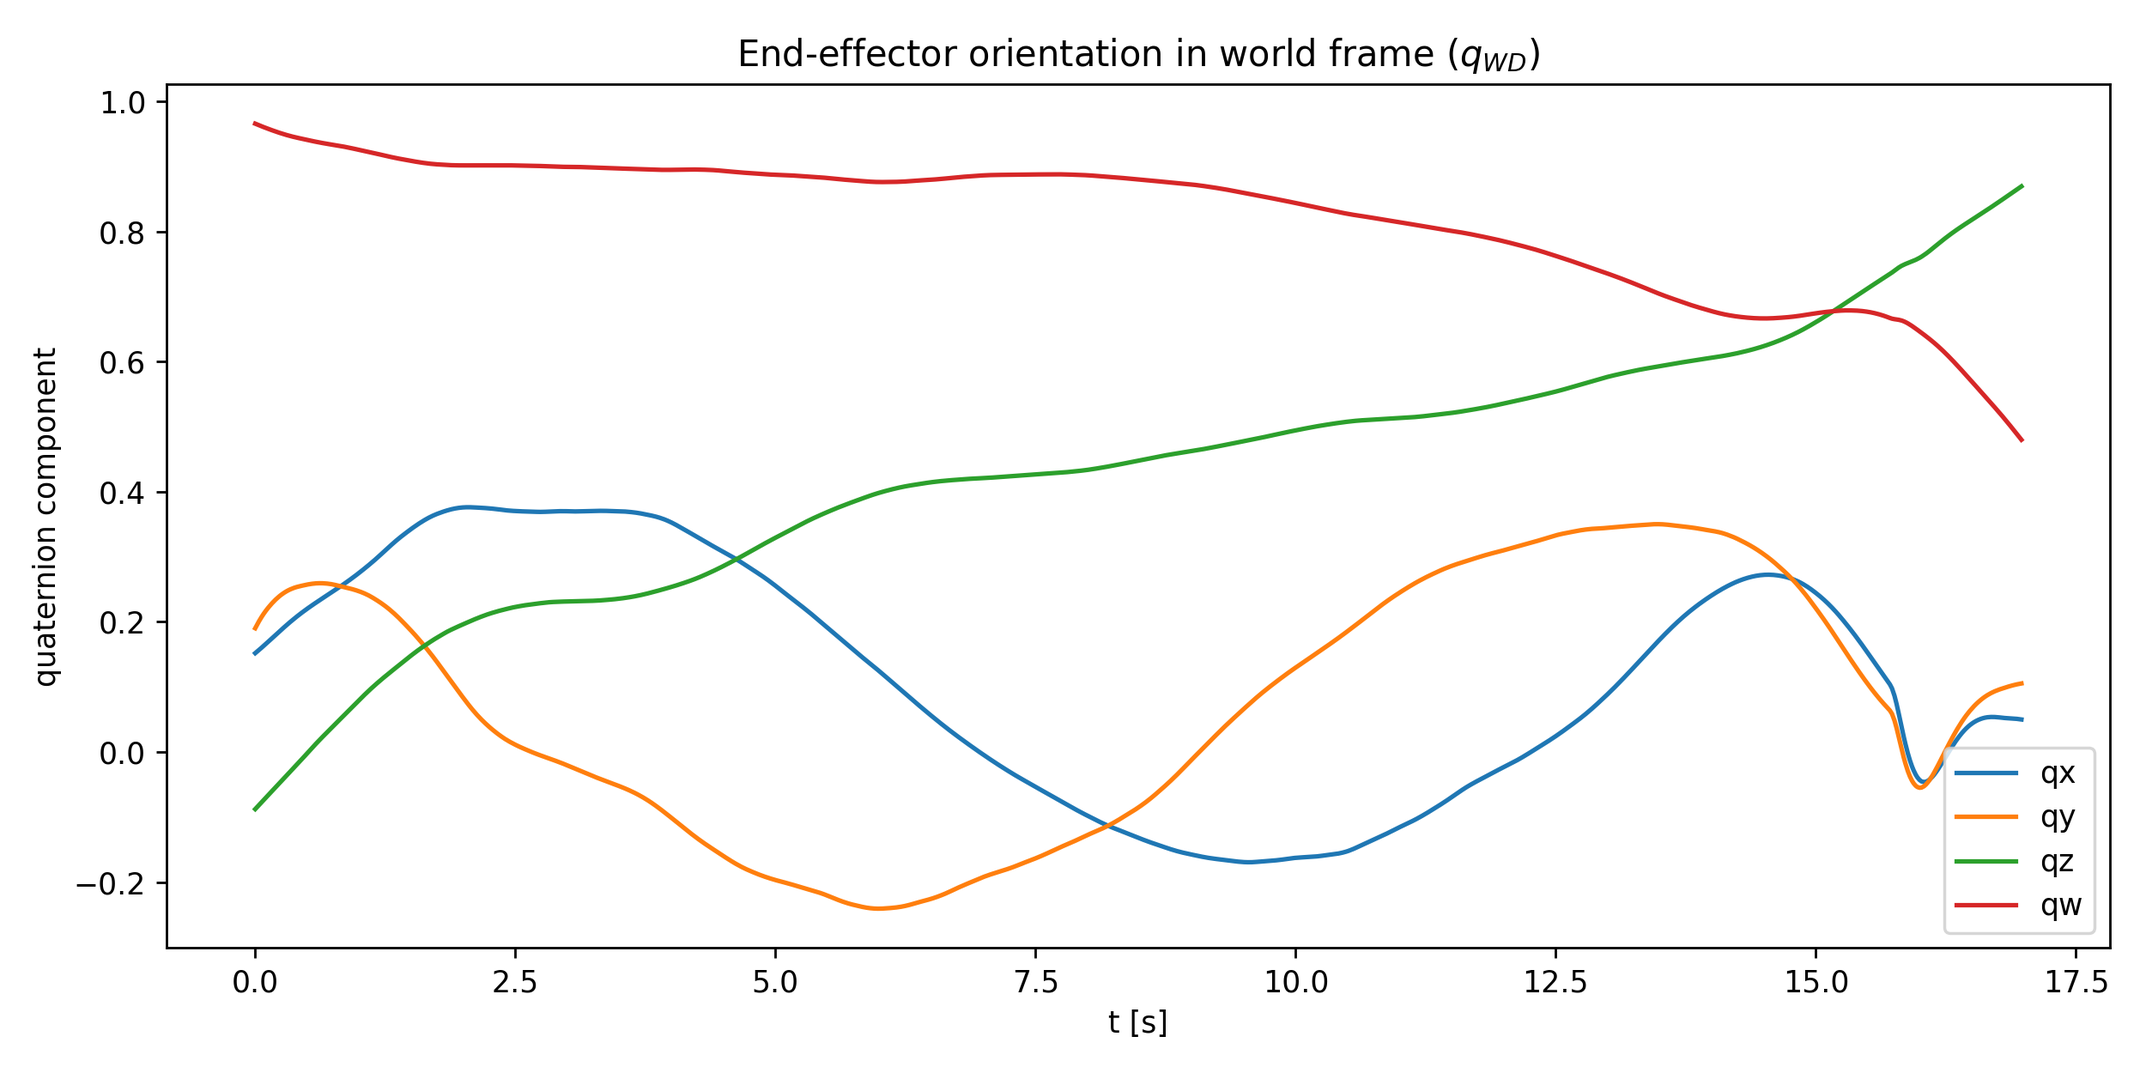
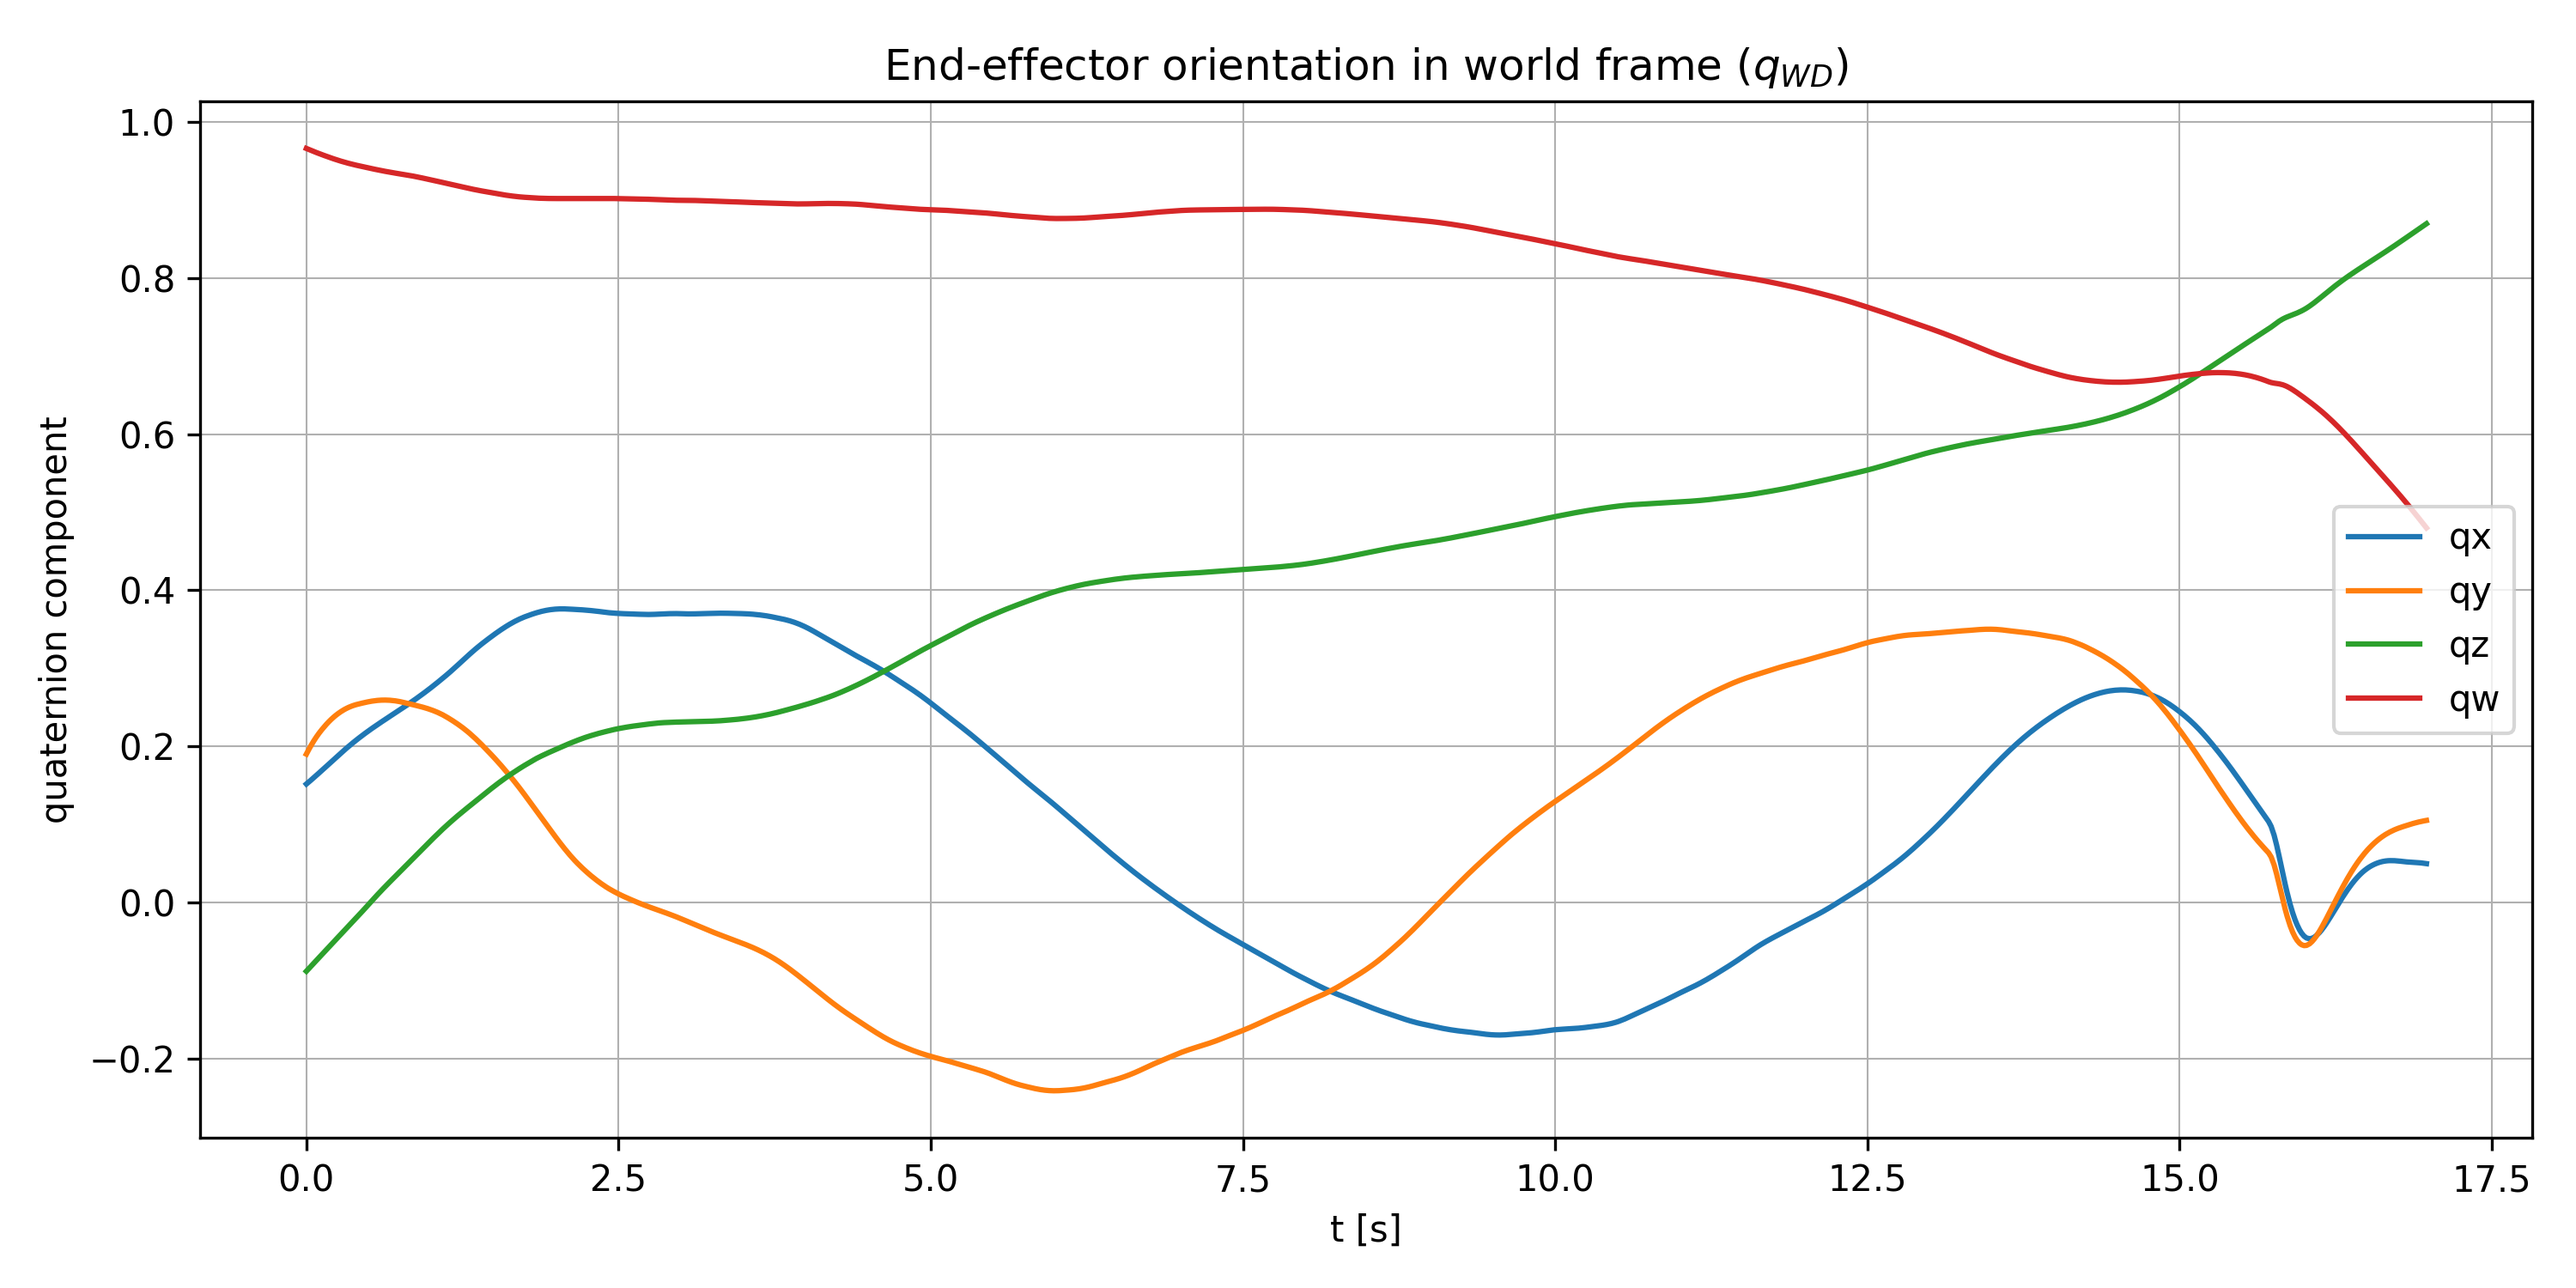
Q1:fix: add zero-norm quat norm, enforce temporal continuity/q_w≥0, enhance plot clarity and output dir safety

diff --git a/documents/solutions/q1_coordinate_transform.py b/documents/solutions/q1_coordinate_transform.py
@@ -4,18 +4,31 @@
 import argparse
 import math
 import os
+from typing import Optional
+
 import numpy as np
 import pandas as pd
 import matplotlib.pyplot as plt
 
 
-def quat_normalize(q: np.ndarray) -> np.ndarray:
+EPS = 1e-12
+
+
+def quat_normalize(q: np.ndarray, eps: float = EPS) -> np.ndarray:
+    """
+    Normalize quaternion(s). q shape: (...,4).
+    Uses safe divide to avoid NaNs if norm is too small.
+    """
     n = np.linalg.norm(q, axis=-1, keepdims=True)
+    n = np.maximum(n, eps)
     return q / n
 
 
 def quat_xyzw_to_rot(q: np.ndarray) -> np.ndarray:
-    """q: (...,4) with (x,y,z,w)"""
+    """
+    Quaternion (x,y,z,w) -> rotation matrix.
+    Assumes scalar-last convention and unit quaternion.
+    """
     x, y, z, w = q[..., 0], q[..., 1], q[..., 2], q[..., 3]
     xx, yy, zz = x * x, y * y, z * z
     xy, xz, yz = x * y, x * z, y * z
@@ -37,23 +50,29 @@ def quat_xyzw_to_rot(q: np.ndarray) -> np.ndarray:
 
 
 def rot_to_quat_xyzw(R: np.ndarray) -> np.ndarray:
-    """R: (N,3,3) -> q: (N,4) with (x,y,z,w), robust branch implementation."""
+    """
+    Rotation matrix -> quaternion (x,y,z,w), scalar-last.
+    Robust branch implementation using trace and dominant diagonal element.
+    R shape: (N,3,3).
+    """
     N = R.shape[0]
     q = np.empty((N, 4), dtype=float)
 
     tr = R[:, 0, 0] + R[:, 1, 1] + R[:, 2, 2]
     m0 = tr > 0.0
 
-    # case 0: trace > 0
+    # Case A: trace > 0
     if np.any(m0):
         S = np.sqrt(tr[m0] + 1.0) * 2.0
+        # Guard S in case of tiny numerical negatives
+        S = np.maximum(S, EPS)
         qw = 0.25 * S
         qx = (R[m0, 2, 1] - R[m0, 1, 2]) / S
         qy = (R[m0, 0, 2] - R[m0, 2, 0]) / S
         qz = (R[m0, 1, 0] - R[m0, 0, 1]) / S
         q[m0] = np.stack([qx, qy, qz, qw], axis=1)
 
-    # case 1: trace <= 0
+    # Case B: trace <= 0
     m1 = ~m0
     if np.any(m1):
         Rm = R[m1]
@@ -70,18 +89,23 @@ def rot_to_quat_xyzw(R: np.ndarray) -> np.ndarray:
 
             if i == 0:
                 S = np.sqrt(1.0 + Ri[:, 0, 0] - Ri[:, 1, 1] - Ri[:, 2, 2]) * 2.0
+                S = np.maximum(S, EPS)
                 qx = 0.25 * S
                 qy = (Ri[:, 0, 1] + Ri[:, 1, 0]) / S
                 qz = (Ri[:, 0, 2] + Ri[:, 2, 0]) / S
                 qw = (Ri[:, 2, 1] - Ri[:, 1, 2]) / S
+
             elif i == 1:
                 S = np.sqrt(1.0 + Ri[:, 1, 1] - Ri[:, 0, 0] - Ri[:, 2, 2]) * 2.0
+                S = np.maximum(S, EPS)
                 qy = 0.25 * S
                 qx = (Ri[:, 0, 1] + Ri[:, 1, 0]) / S
                 qz = (Ri[:, 1, 2] + Ri[:, 2, 1]) / S
                 qw = (Ri[:, 0, 2] - Ri[:, 2, 0]) / S
+
             else:
                 S = np.sqrt(1.0 + Ri[:, 2, 2] - Ri[:, 0, 0] - Ri[:, 1, 1]) * 2.0
+                S = np.maximum(S, EPS)
                 qz = 0.25 * S
                 qx = (Ri[:, 0, 2] + Ri[:, 2, 0]) / S
                 qy = (Ri[:, 1, 2] + Ri[:, 2, 1]) / S
@@ -95,6 +119,12 @@ def rot_to_quat_xyzw(R: np.ndarray) -> np.ndarray:
 
 
 def compute_R_BD(t: np.ndarray, omega: float, alpha: float) -> np.ndarray:
+    """
+    Compute {}^B R_D(t) from the given closed-form matrix:
+      [ cos(ωt)  -sin(ωt)cosα   sin(ωt)sinα
+        sin(ωt)   cos(ωt)cosα  -cos(ωt)sinα
+          0          sinα          cosα     ]
+    """
     ct = np.cos(omega * t)
     st = np.sin(omega * t)
     ca = math.cos(alpha)
@@ -107,17 +137,38 @@ def compute_R_BD(t: np.ndarray, omega: float, alpha: float) -> np.ndarray:
     R[:, 1, 0] = st
     R[:, 1, 1] = ct * ca
     R[:, 1, 2] = -ct * sa
-    R[:, 2, 0] = 0.0
     R[:, 2, 1] = sa
     R[:, 2, 2] = ca
     return R
 
 
 def enforce_qw_ge0(q: np.ndarray) -> np.ndarray:
+    """If qw < 0, flip the entire quaternion to satisfy qw >= 0."""
     q2 = q.copy()
     m = q2[:, 3] < 0.0
     q2[m] *= -1.0
     return q2
+
+
+def enforce_time_continuity_by_dot(q: np.ndarray) -> np.ndarray:
+    """
+    Enforce quaternion time-series continuity using dot-product rule:
+    if dot(q[k], q[k-1]) < 0, flip q[k].
+    This removes artificial sign flips from the double-cover property.
+    """
+    if q.shape[0] <= 1:
+        return q
+    q2 = q.copy()
+    for k in range(1, q2.shape[0]):
+        if float(np.dot(q2[k], q2[k - 1])) < 0.0:
+            q2[k] *= -1.0
+    return q2
+
+
+def _makedirs_for_file(path: str) -> None:
+    d = os.path.dirname(os.path.abspath(path))
+    if d:
+        os.makedirs(d, exist_ok=True)
 
 
 def main():
@@ -127,38 +178,62 @@ def main():
     ap.add_argument("--out_png", default="solutions/q1_quaternion_world.png")
     ap.add_argument("--omega", type=float, default=0.5)
     ap.add_argument("--alpha", type=float, default=math.pi / 12.0)
+
+    # Optional: in case tracking.csv turns out to be q_BW instead of q_WB
+    ap.add_argument(
+        "--tracking_is_RBW",
+        action="store_true",
+        help="If set, interpret tracking quaternion as mapping W->B (i.e., R_BW). Then we transpose to get R_WB."
+    )
     args = ap.parse_args()
 
     df = pd.read_csv(args.tracking)
-    t = df["t"].to_numpy()
-    qWB = df[["qx", "qy", "qz", "qw"]].to_numpy()
-    qWB = quat_normalize(qWB)
+    required_cols = {"t", "qx", "qy", "qz", "qw"}
+    missing = required_cols - set(df.columns)
+    if missing:
+        raise ValueError(f"tracking file missing columns: {sorted(missing)}")
 
-    # {}^W R_B from tracking quaternion
-    RWB = quat_xyzw_to_rot(qWB)
+    t = df["t"].to_numpy(dtype=float)
+    q_track = df[["qx", "qy", "qz", "qw"]].to_numpy(dtype=float)
 
-    # {}^B R_D from the given formula
+    # Step 1: normalize input quaternion
+    q_track = quat_normalize(q_track)
+
+    # Step 2: rotation from tracking quaternion
+    R_track = quat_xyzw_to_rot(q_track)
+    if args.tracking_is_RBW:
+        # If tracking provides R_BW, convert to R_WB by transpose (inverse).
+        RWB = np.transpose(R_track, (0, 2, 1))
+    else:
+        # Default: tracking provides R_WB
+        RWB = R_track
+
+    # Step 3: {}^B R_D from the given formula
     RBD = compute_R_BD(t, args.omega, args.alpha)
 
-    # {}^W R_D = {}^W R_B * {}^B R_D
+    # Step 4: {}^W R_D = {}^W R_B * {}^B R_D
     RWD = RWB @ RBD
 
-    # back to quaternion
+    # Step 5: convert to quaternion
     qWD = rot_to_quat_xyzw(RWD)
-    qWD = enforce_qw_ge0(qWD)  # required by the homework statement
-    qWD = quat_normalize(qWD)  # final safety
 
-    os.makedirs(os.path.dirname(args.out_csv), exist_ok=True)
-    out = pd.DataFrame({
-        "t": t,
-        "qx": qWD[:, 0],
-        "qy": qWD[:, 1],
-        "qz": qWD[:, 2],
-        "qw": qWD[:, 3],
-    })
+    # Requirement/wording alignment:
+    # (i) enforce time-series continuity (remove random sign flips)
+    qWD = enforce_time_continuity_by_dot(qWD)
+
+    # (ii) finally enforce qw >= 0 as required, then renormalize
+    qWD = enforce_qw_ge0(qWD)
+    qWD = quat_normalize(qWD)
+
+    # Save CSV
+    _makedirs_for_file(args.out_csv)
+    out = pd.DataFrame(
+        {"t": t, "qx": qWD[:, 0], "qy": qWD[:, 1], "qz": qWD[:, 2], "qw": qWD[:, 3]}
+    )
     out.to_csv(args.out_csv, index=False)
 
-    # plot
+    # Plot quaternion components with clearer ticks
+    _makedirs_for_file(args.out_png)
     plt.figure(figsize=(10, 5))
     plt.plot(t, qWD[:, 0], label="qx")
     plt.plot(t, qWD[:, 1], label="qy")
@@ -167,9 +242,12 @@ def main():
     plt.xlabel("t [s]")
     plt.ylabel("quaternion component")
     plt.title("End-effector orientation in world frame ($q_{WD}$)")
+    plt.grid(True, linewidth=0.5)
+    plt.tick_params(axis="both", which="major", labelsize=10)
     plt.legend()
     plt.tight_layout()
-    plt.savefig(args.out_png, dpi=250)
+    plt.savefig(args.out_png, dpi=300)
+
     print(f"[OK] saved: {args.out_csv}")
     print(f"[OK] saved: {args.out_png}")
 
